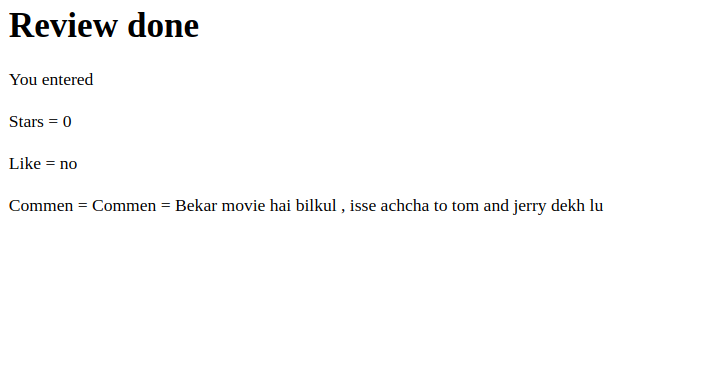
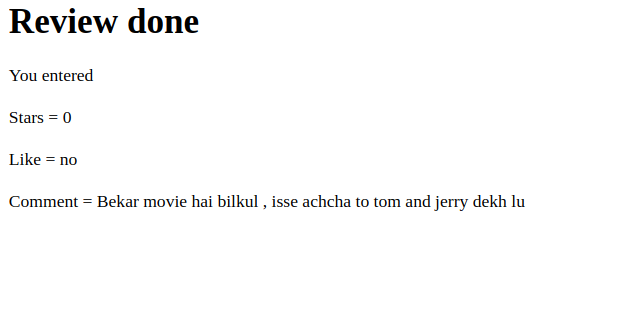
added assignment - 2

diff --git a/README.md b/README.md
@@ -87,7 +87,7 @@ MariaDB [java]> select * from moviereview;
 +-------+------+------------------------------------------------------------------------+
 | stars | res  | comment                                                                |
 +-------+------+------------------------------------------------------------------------+
-| 0     | no   | Commen = Bekar movie hai bilkul , isse achcha to tom and jerry dekh lu |
+| 0     | no   |  Bekar movie hai bilkul , isse achcha to tom and jerry dekh lu         |
 +-------+------+------------------------------------------------------------------------+
 1 row in set (0.000 sec)
 ```
